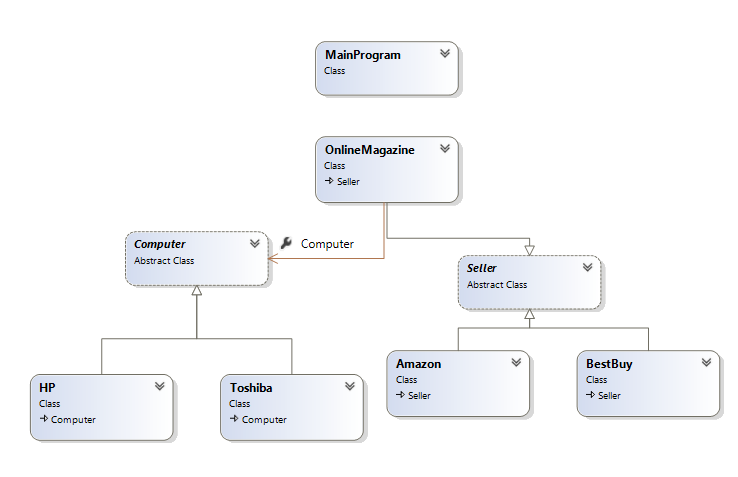
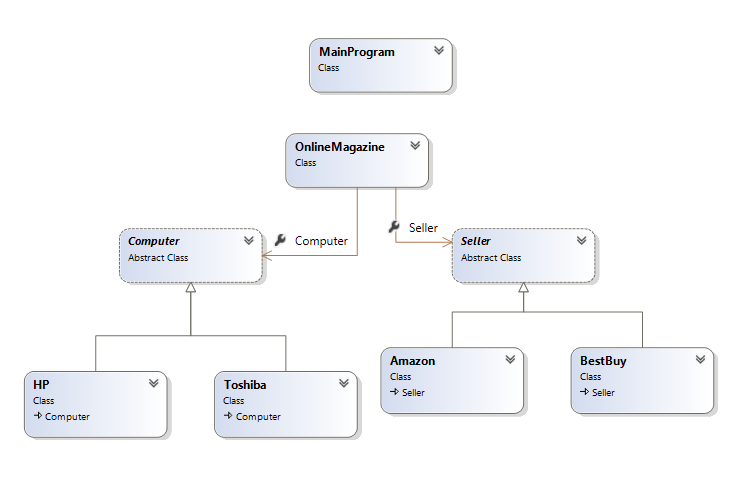
Small fix

Changed region(s): [[0.0312, 0.2642, 0.9973, 0.9392], [0.4051, 0.0587, 0.6545, 0.2055]]

diff --git a/High Quality Code/Creational Patterns/CreationalPatterns/AbstractFactory/Properties/AssemblyInfo.cs b/High Quality Code/Creational Patterns/CreationalPatterns/AbstractFactory/Properties/AssemblyInfo.cs
@@ -1,0 +1,36 @@
+using System.Reflection;
+using System.Runtime.CompilerServices;
+using System.Runtime.InteropServices;
+
+// General Information about an assembly is controlled through the following 
+// set of attributes. Change these attribute values to modify the information
+// associated with an assembly.
+[assembly: AssemblyTitle("AbstractFactory")]
+[assembly: AssemblyDescription("")]
+[assembly: AssemblyConfiguration("")]
+[assembly: AssemblyCompany("")]
+[assembly: AssemblyProduct("AbstractFactory")]
+[assembly: AssemblyCopyright("Copyright ©  2015")]
+[assembly: AssemblyTrademark("")]
+[assembly: AssemblyCulture("")]
+
+// Setting ComVisible to false makes the types in this assembly not visible 
+// to COM components.  If you need to access a type in this assembly from 
+// COM, set the ComVisible attribute to true on that type.
+[assembly: ComVisible(false)]
+
+// The following GUID is for the ID of the typelib if this project is exposed to COM
+[assembly: Guid("5393cb51-cc98-4ac0-870e-35811c7b1fcf")]
+
+// Version information for an assembly consists of the following four values:
+//
+//      Major Version
+//      Minor Version 
+//      Build Number
+//      Revision
+//
+// You can specify all the values or you can default the Build and Revision Numbers 
+// by using the '*' as shown below:
+// [assembly: AssemblyVersion("1.0.*")]
+[assembly: AssemblyVersion("1.0.0.0")]
+[assembly: AssemblyFileVersion("1.0.0.0")]

diff --git a/High Quality Code/Creational Patterns/CreationalPatterns/AbstractFactory/OnlineMagazine.cs b/High Quality Code/Creational Patterns/CreationalPatterns/AbstractFactory/OnlineMagazine.cs
@@ -1,0 +1,41 @@
+using System;
+using System.Collections.Generic;
+using System.Linq;
+using System.Text;
+using System.Threading.Tasks;
+using AbstractFactory.Computers;
+using AbstractFactory.Factories;
+
+namespace AbstractFactory
+{
+    public class OnlineMagazine : AbstractFactory.Factories.Seller
+    {
+        private readonly Seller seller;
+
+        public OnlineMagazine(Seller seller)
+        {
+            this.seller = seller;
+        }
+
+        public AbstractFactory.Computers.Computer Computer
+        {
+            get
+            {
+                throw new System.NotImplementedException();
+            }
+            set
+            {
+            }
+        }
+
+        public Toshiba SaleToshiba()
+        {
+            return this.seller.SaleToshiba();
+        }
+
+        public HP SaleHP()
+        {
+            return this.seller.SaleHP();
+        }
+    }
+}

diff --git a/High Quality Code/Creational Patterns/CreationalPatterns/AbstractFactory/Factories/Amazon.cs b/High Quality Code/Creational Patterns/CreationalPatterns/AbstractFactory/Factories/Amazon.cs
@@ -1,0 +1,29 @@
+using System;
+using System.Collections.Generic;
+using System.Linq;
+using System.Text;
+using System.Threading.Tasks;
+
+namespace AbstractFactory.Factories
+{
+    using AbstractFactory.Computers;
+
+    public class Amazon : Seller
+    {
+        private const string SellerName = "Amazon";
+
+        public override HP SaleHP()
+        {
+            var components = new List<string> {"mouse", "speakers"};
+            var computer=new HP(components,SellerName);
+            return computer;
+        }
+
+        public override Toshiba SaleToshiba()
+        {
+            var components = new List<string> { "mouse"};
+            var computer = new Toshiba(components, SellerName);
+            return computer;
+        }
+    }
+}

diff --git a/High Quality Code/Creational Patterns/CreationalPatterns/AbstractFactory/Factories/BestBuy.cs b/High Quality Code/Creational Patterns/CreationalPatterns/AbstractFactory/Factories/BestBuy.cs
@@ -1,0 +1,26 @@
+namespace AbstractFactory.Factories
+{
+    using System.Collections.Generic;
+
+    using AbstractFactory.Computers;
+
+    public class BestBuy : Seller
+    {
+
+        private const string SellerName = "Best buy";
+
+        public override HP SaleHP()
+        {
+            var components = new List<string> { "HDD", "speakers" };
+            var computer = new HP(components, SellerName);
+            return computer;
+        }
+
+        public override Toshiba SaleToshiba()
+        {
+            var components = new List<string> { "HDD" ,"mouse"};
+            var computer = new Toshiba(components, SellerName);
+            return computer;
+        }
+    }
+}

diff --git a/High Quality Code/Creational Patterns/CreationalPatterns/AbstractFactory/Computers/Computer.cs b/High Quality Code/Creational Patterns/CreationalPatterns/AbstractFactory/Computers/Computer.cs
@@ -1,0 +1,31 @@
+using System;
+using System.Collections.Generic;
+using System.Linq;
+using System.Text;
+using System.Threading.Tasks;
+
+namespace AbstractFactory.Computers
+{
+    public abstract class Computer
+    {
+        private IEnumerable<string> components;
+
+        protected Computer(IEnumerable<string> components)
+        {
+            this.components = new List<string>(components);
+        }
+
+        public IEnumerable<string> Components
+        {
+            get
+            {
+                return this.components;
+                
+            }
+        }
+
+        public abstract string Seller { get; }
+
+
+    }
+}

diff --git a/High Quality Code/Creational Patterns/CreationalPatterns/Singleton/StartPoint.cs b/High Quality Code/Creational Patterns/CreationalPatterns/Singleton/StartPoint.cs
@@ -10,10 +10,9 @@ namespace Singleton
             var firstHighScore = HighScore.Instance;
             firstHighScore.SaveHighScore("Aleksandra", 95);
             var secondHighScore = HighScore.Instance;
-            
-           Console.WriteLine(firstHighScore);
-           Console.WriteLine(secondHighScore);
-            secondHighScore.SaveHighScore("Goran",96);
+            Console.WriteLine(firstHighScore);
+            Console.WriteLine(secondHighScore);
+            secondHighScore.SaveHighScore("Goran", 96);
             Console.WriteLine(firstHighScore);
             Console.WriteLine(secondHighScore);
         }

diff --git a/High Quality Code/Creational Patterns/CreationalPatterns/AbstractFactory/MainProgram.cs b/High Quality Code/Creational Patterns/CreationalPatterns/AbstractFactory/MainProgram.cs
@@ -1,0 +1,25 @@
+
+using System;
+
+namespace AbstractFactory
+{
+    using AbstractFactory.Factories;
+
+    public class MainProgram
+    {
+        static void Main(string[] args)
+        {
+            var bestBuy = new BestBuy();
+            var ebay = new OnlineMagazine(bestBuy);
+            var toshiba = ebay.SaleToshiba();
+            Console.WriteLine(toshiba.Seller);
+
+            var amazon=new Amazon();
+            var amazonOnline=new OnlineMagazine(amazon);
+            var hp = amazonOnline.SaleHP();
+            Console.WriteLine(hp.Seller);
+
+
+        }
+    }
+}

diff --git a/High Quality Code/Creational Patterns/CreationalPatterns/AbstractFactory/Computers/Toshiba.cs b/High Quality Code/Creational Patterns/CreationalPatterns/AbstractFactory/Computers/Toshiba.cs
@@ -1,0 +1,25 @@
+using System;
+using System.Collections.Generic;
+using System.Linq;
+using System.Text;
+using System.Threading.Tasks;
+
+namespace AbstractFactory.Computers
+{
+    public class Toshiba : Computer
+    {
+        private string seller;
+
+        public Toshiba(IEnumerable<string> components, string seller)
+            : base(components)
+        {
+            this.seller = seller;
+        }
+
+
+        public override string Seller
+        {
+            get { return String.Format("The seller is {0}", this.seller); }
+        }
+    }
+}

diff --git a/High Quality Code/Creational Patterns/CreationalPatterns/AbstractFactory/Computers/HP.cs b/High Quality Code/Creational Patterns/CreationalPatterns/AbstractFactory/Computers/HP.cs
@@ -1,0 +1,24 @@
+namespace AbstractFactory.Computers
+{
+    using System;
+    using System.Collections.Generic;
+    
+
+
+    public class HP : Computer
+    {
+        private string seller;
+
+        public HP(IEnumerable<string> components, string seller)
+            : base(components)
+        {
+            this.seller = seller;
+        }
+
+
+        public override string Seller
+        {
+            get { return String.Format("The seller is {0}", this.seller); }
+        }
+    }
+}

diff --git a/High Quality Code/Creational Patterns/CreationalPatterns/AbstractFactory/Factories/Seller.cs b/High Quality Code/Creational Patterns/CreationalPatterns/AbstractFactory/Factories/Seller.cs
@@ -1,0 +1,11 @@
+namespace AbstractFactory.Factories
+{
+    using AbstractFactory.Computers;
+
+    public abstract class Seller
+    {
+        public abstract HP SaleHP();
+
+        public abstract Toshiba SaleToshiba();
+    }
+}
